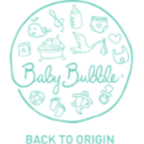
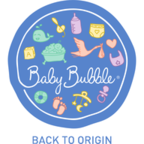
imporovements

diff --git a/web/css/custom.css b/web/css/custom.css
@@ -83,7 +83,7 @@ body{
     margin-top: 40px;
     text-align: center;
     font-size: 14px;
-    background-color: rgb(217, 242, 246);
+    background-color: #5784cc;
     background-image: url('/img/logo.png');
     background-repeat: no-repeat;
     background-size:100%;
@@ -122,6 +122,8 @@ footer{
 #newAppointment{
     display: none;
     position: fixed;
+    width: 40%;
+    height: 30%;
     top: 30%;
     left: 30%;
     text-align:center;
@@ -154,4 +156,20 @@ footer{
 .navbarLogo{
     margin: 10px 20px 4px 0;
     padding: 0;
+}
+
+@media (max-width: 900px) {
+  #calendar{
+    width: 96% !important;
+    margin: 2% !important;
+  }
+
+  .fc-header-center{
+    display: none;
+  }
+
+  #newAppointment{
+    width: 90%;
+    left: 5%;
+  }
 }

diff --git a/web/js/myJs.js b/web/js/myJs.js
@@ -2,6 +2,8 @@ $(document).ready(function() {
     $overlay = $('<div id="overlay"></div>');
     $("body").append($overlay);
 
+    $('#body-cover').height($(window).height());
+
     $('#overlay').click(function(){
         $(this).hide();
         $('#newAppointment').hide();
